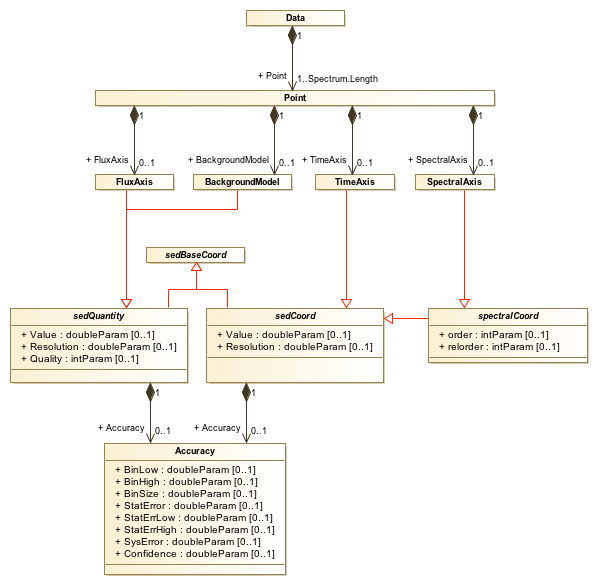
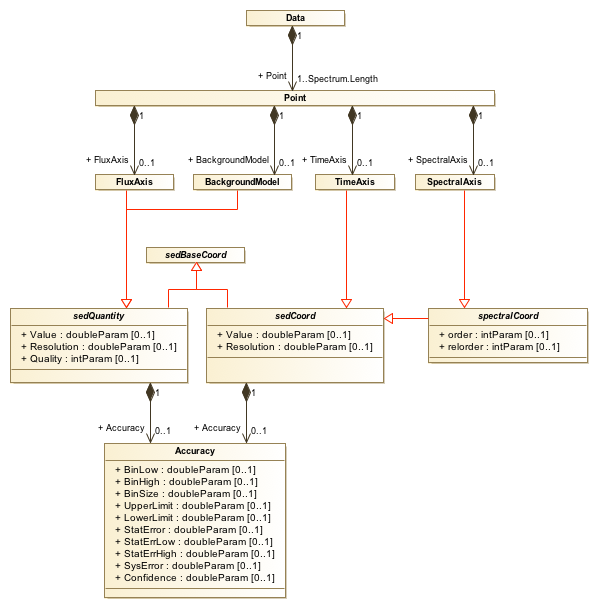
add upper/lower limit elements

diff --git a/doc/fields_table.tex b/doc/fields_table.tex
@@ -240,20 +240,22 @@ Data.BackgroundModel.unit     &TUNITn              & meta.unit               & U
 \hline
 \multicolumn{4}{c}{Accuracy Fields - per data point (default to corresponding Spectrum.Char values)} \\
 \hline
-Data.FluxAxis.Accuracy.StatError   &TTYPEn = 'ERR'    & stat.error;phot.flux.density; em.*   & symmetric error & OPT & (Char)\\
-Data.FluxAxis.Accuracy.StatErrLow &TTYPEn='ERR\_LO'       & stat.error;phot.flux.density; em.*;stat.min     & Lower error & OPT & (Char)\\
-Data.FluxAxis.Accuracy.StatErrHigh&TTYPEn='ERR\_HI'       & stat.error;phot.flux.density; em.*;stat.max     & Upper error & OPT & (Char)\\
-Data.FluxAxis.Accuracy.SysError&TTYPEn='SYS\_ERR'        & stat.error.sys;phot.flux.density; em.{\it  ..}    & Systematic error & OPT  & (Char)\\
-Data.FluxAxis.Quality     &TTYPEn='QUALITY'   & meta.code.qual; phot.flux.density, em.*   & Quality mask& OPT    &  0\\
-Data.FluxAxis.Quality.n   &TTYPEn='QUALn'   &     & String value, for n = 0,1,2..; meaning of quality value &OPT & None \\
-Data.SpectralAxis.Accuracy.BinSize &TTYPEn='WAVE\_BIN',etc  & em.*;spect.binSize  & Wavelength bin size  & OPT & (Char)\\
-Data.SpectralAxis.Accuracy.BinLow  & TTYPEn ='WAVE\_LO',etc   & em.*;stat.min & Spectral coord bin lower end & OPT & \\
-Data.SpectralAxis.Accuracy.BinHigh & TTYPEn ='WAVE\_HI',etc   & em.*;stat.max  &Spectral coord bin upper end & OPT & \\
-Data.SpectralAxis.Accuracy.StatError&TTYPEn ='WAVE\_ERR',etc    &  stat.error;em.*  & Spectral coord measurement error & OPT & (Char)\\
-Data.SpectralAxis.Accuracy.StatErrLow&TTYPEn='WAVE\_ELO',etc    & stat.error; em.*;stat.min  & Spectral coord measurement lower error & OPT & (Char)\\
-Data.SpectralAxis.Accuracy.StatErrHigh&TTYPEn='WAVE\_EHI',etc   & stat.error; em.*;stat.max  & Spectral coord measurement upper error & OPT & (Char)\\
-Data.SpectralAxis.Accuracy.SysError &TTYPEn='WAVE\_SYE',etc        & stat.error.sys;em.*  & Spectral coord systematic error & OPT & (Char)\\
-Data.SpectralAxis.Resolution   & TTYPEn ='WAVE\_RES',etc  & spect.resolution; em.*   & Spectral resolution FWHM & OPT & (Char)\\
+Data.FluxAxis.Accuracy.LowerLimit      &TTYPEn='LOWER\_LIMIT'  & stat.error;phot.flux.density; em.*;stat.min     & Lower Limit      & OPT & (None)\\
+Data.FluxAxis.Accuracy.UpperLimit      &TTYPEn='UPPER\_LIMIT'  & stat.error;phot.flux.density; em.*;stat.max     & Upper Limit      & OPT & (None)\\
+Data.FluxAxis.Accuracy.StatError       &TTYPEn='ERR'           & stat.error;phot.flux.density; em.*              & symmetric error  & OPT & (Char)\\
+Data.FluxAxis.Accuracy.StatErrLow      &TTYPEn='ERR\_LO'       & stat.error;phot.flux.density; em.*;stat.min     & Lower error      & OPT & (Char)\\
+Data.FluxAxis.Accuracy.StatErrHigh     &TTYPEn='ERR\_HI'       & stat.error;phot.flux.density; em.*;stat.max     & Upper error      & OPT & (Char)\\
+Data.FluxAxis.Accuracy.SysError        &TTYPEn='SYS\_ERR'      & stat.error.sys;phot.flux.density; em.{\it  ..}  & Systematic error & OPT & (Char)\\
+Data.FluxAxis.Quality                  &TTYPEn='QUALITY'       & meta.code.qual; phot.flux.density, em.*         & Quality mask     & OPT &  0\\
+Data.FluxAxis.Quality.n                &TTYPEn='QUALn'         &                                                 & String value, for n = 0,1,2..; meaning of quality value &OPT & (None)\\
+Data.SpectralAxis.Accuracy.BinSize     &TTYPEn='WAVE\_BIN',etc & em.*;spect.binSize                              & Wavelength bin size             & OPT & (Char)\\
+Data.SpectralAxis.Accuracy.BinLow      &TTYPEn='WAVE\_LO',etc  & em.*;stat.min                                   & Spectral coord bin lower end    & OPT & \\
+Data.SpectralAxis.Accuracy.BinHigh     &TTYPEn='WAVE\_HI',etc  & em.*;stat.max                                   & Spectral coord bin upper end    & OPT & \\
+Data.SpectralAxis.Accuracy.StatError   &TTYPEn='WAVE\_ERR',etc & stat.error;em.*                                 & Spectral coord measurement error       & OPT & (Char)\\
+Data.SpectralAxis.Accuracy.StatErrLow  &TTYPEn='WAVE\_ELO',etc & stat.error; em.*;stat.min                       & Spectral coord measurement lower error & OPT & (Char)\\
+Data.SpectralAxis.Accuracy.StatErrHigh &TTYPEn='WAVE\_EHI',etc & stat.error; em.*;stat.max                       & Spectral coord measurement upper error & OPT & (Char)\\
+Data.SpectralAxis.Accuracy.SysError    &TTYPEn='WAVE\_SYE',etc & stat.error.sys;em.*                             & Spectral coord systematic error        & OPT & (Char)\\
+Data.SpectralAxis.Resolution           &TTYPEn='WAVE\_RES',etc & spect.resolution; em.*                          & Spectral resolution FWHM               & OPT & (Char)\\
 \end{tabular}
 
 \end{minipage}

diff --git a/doc/specfits.tex b/doc/specfits.tex
@@ -350,31 +350,33 @@ Data model field & FITS keyword& Source & Value if fixed \\
 \multicolumn{4}{c}{ Per-data-point values }\\
 \hline
 \\
-Data.FluxAxis.Value & TTYPEn & S & FLUX\\
-UTYPE of above ...               & TUTYPn & N & 'Spectrum.Data.FluxAxis.Value'\\
-Data.FluxAxis.Unit & TUNITn& S\\
-Data.FluxAxis.ucd &   TUCDn  & N& (same as Char)\\
-Data.FluxAxis.Accuracy.StatError & TTYPEn  & N & ERR\\
+Data.FluxAxis.Value               & TTYPEn & S & FLUX\\
+UTYPE of above ...                & TUTYPn & N & 'Spectrum.Data.FluxAxis.Value'\\
+Data.FluxAxis.Unit                & TUNITn & S\\
+Data.FluxAxis.ucd                 & TUCDn  & N & (same as Char)\\
+Data.FluxAxis.Accuracy.LowerLimit & TTYPEn & N & LOWER\_LIMIT\\
+Data.FluxAxis.Accuracy.UpperLimit & TTYPEn & N & UPPER\_LIMIT\\ 
+Data.FluxAxis.Accuracy.StatError  & TTYPEn & N & ERR\\
 Data.FluxAxis.Accuracy.StatErrLow & TTYPEn & C & ERR\_LO\\
-Data.FluxAxis.Accuracy.StatErrHigh& TTYPEn& C & ERR\_HI\\ 
-Data.FluxAxis.Accuracy.SysError & TTYPEn & C & SYS\_ERR \\
-Data.FluxAxis.Quality & TTYPEn & C & QUALITY\\
-Data.FluxAxis.QualityN & TTYPEn & C & QUALn\\
+Data.FluxAxis.Accuracy.StatErrHigh& TTYPEn & C & ERR\_HI\\ 
+Data.FluxAxis.Accuracy.SysError   & TTYPEn & C & SYS\_ERR \\
+Data.FluxAxis.Quality             & TTYPEn & C & QUALITY\\
+Data.FluxAxis.QualityN            & TTYPEn & C & QUALn\\
  & & & \\
-Data.SpectralAxis.Value  & TTYPEn & S & WAVE,ENER,FREQ\\
-UTYPE of above ...               & TUTYPn & N & 'Spectrum.Data.SpectralAxis.Value'\\
-Data.SpectralAxis.Unit & TUNITn & S & (same as Char)\\
-Data.SpectralAxis.ucd &  TUCDn &N & (same as Char) \\
-Data.SpectralAxis.order  & TTYPEn & N & ORDER\\
-Data.SpectralAxis.relorder  & TTYPEn & N & RELORDER\\
-Data.SpectralAxis.Accuracy.BinSize& TTYPEn & N & WAVE\_BIN,ENER\_BIN, FREQ\_BIN\\
-Data.SpectralAxis.Accuracy.BinLow & TTYPEn & N & WAVE\_LO,ENER\_LO, FREQ\_LO \\
-Data.SpectralAxis.Accuracy.BinHigh& TTYPEn & N & WAVE\_HI,ENER\_HI, FREQ\_HI \\
-Data.SpectralAxis.Accuracy.StatError & TTYPEn& N & WAVE\_ERR,ENER\_ERR, FREQ\_ERR \\
-Data.SpectralAxis.Accuracy.StatErrLow& TTYPEn& N & WAVE\_ELO,ENER\_ELO, FREQ\_ELO \\
-Data.SpectralAxis.Accuracy.StatErrHigh & TTYPEn& N& WAVE\_EHI,ENER\_EHI, FREQ\_EHI \\
-Data.SpectralAxis.Accuracy.SysError & TTYPEn & N &  WAVE\_SYE,ENER\_SYE, FREQ\_SYE \\
-Data.SpectralAxis.Resolution & TTYPEn & N & WAVE\_RES,ENER\_RES, FREQ\_RES \\
+Data.SpectralAxis.Value                & TTYPEn & S & WAVE,ENER,FREQ\\
+UTYPE of above ...                     & TUTYPn & N & 'Spectrum.Data.SpectralAxis.Value'\\
+Data.SpectralAxis.Unit                 & TUNITn & S & (same as Char)\\
+Data.SpectralAxis.ucd                  & TUCDn  & N & (same as Char) \\
+Data.SpectralAxis.order                & TTYPEn & N & ORDER\\
+Data.SpectralAxis.relorder             & TTYPEn & N & RELORDER\\
+Data.SpectralAxis.Accuracy.BinSize     & TTYPEn & N & WAVE\_BIN,ENER\_BIN, FREQ\_BIN\\
+Data.SpectralAxis.Accuracy.BinLow      & TTYPEn & N & WAVE\_LO,ENER\_LO, FREQ\_LO \\
+Data.SpectralAxis.Accuracy.BinHigh     & TTYPEn & N & WAVE\_HI,ENER\_HI, FREQ\_HI \\
+Data.SpectralAxis.Accuracy.StatError   & TTYPEn & N & WAVE\_ERR,ENER\_ERR, FREQ\_ERR \\
+Data.SpectralAxis.Accuracy.StatErrLow  & TTYPEn & N & WAVE\_ELO,ENER\_ELO, FREQ\_ELO \\
+Data.SpectralAxis.Accuracy.StatErrHigh & TTYPEn & N & WAVE\_EHI,ENER\_EHI, FREQ\_EHI \\
+Data.SpectralAxis.Accuracy.SysError    & TTYPEn & N & WAVE\_SYE,ENER\_SYE, FREQ\_SYE \\
+Data.SpectralAxis.Resolution           & TTYPEn & N & WAVE\_RES,ENER\_RES, FREQ\_RES \\
 \\
 \end{tabular}
 \end{minipage}

diff --git a/doc/Spectrum.tex b/doc/Spectrum.tex
@@ -64,7 +64,7 @@
 \par\noindent \htmtitle{IVOA Spectrum Data Model}{Version 1.2}
 \Large
 \vskip 0.1in
-\par\noindent{\bf IVOA Working Draft 2022-07-19}
+\par\noindent{\bf IVOA Working Draft 2022-07-20}
 \color{black}
 \vskip 0.2in
 
@@ -74,7 +74,7 @@
 
 Data Model Working Group
 
-\par\noindent{\bf This version (Mod 0)}
+\par\noindent{\bf This version (Mod 2)}
 
 { 
 \color{dblue}
@@ -173,6 +173,7 @@ This version adds support for:
 \subsection{Change Log}
 
 \begin{verbatim}
+2022 Jul 20 V1.2 Mod 2 - Add upper/lower limit elements
 2022 Jul 19 V1.2 Mod 1 - Add spectral order elements
 2022 Jun 22 V1.2 Mod 0 - Document reset to WD for enhancement
 \end{verbatim}
@@ -840,16 +841,10 @@ error ellipse, but this is too complicated for the present model.
 We also use a very simple error model for the fluxes: we include plus and minus flux
 errors, and a quality flag. The errors are understood as
 1 sigma gaussian errors which are uncorrelated for different points
-in the spectrum. If the data provider has only upper limit
-information, it should be represented by setting the flux value and
-the lower error value equal to the limit, and the upper error value
-equal to zero (e.g.  5 (+0,-5)). In general applications
-may choose to render measurements as upper limits if the flux value
-is less than some multiple (e.g. 3) of the lower error.
+in the spectrum. 
 We also allow a systematic error value, assumed constant across
 a given spectrum and fully correlated (so that, e.g. it does not enter
 into estimating spectral slopes).
-
 
 {\bf CLARIFICATION: }  the two-sided errors StatErrLow and StatErrHigh are the plus/minus ERRORS,
 not the (value+error, value-error). In other words, if Value = 10 and there
@@ -866,7 +861,20 @@ SpectralCoord, Time, Sky and Flux are optional; however, omitting these fields
 indicates that the errors are unknown. Data providers are STRONGLY
 encouraged to provide explicit error measures whenever possible. 
 
- 
+\subsubsection{Statistical Limits}
+
+The UpperLimit and LowerLimit fields allow data providers to explicitly
+represent statistical limits on the flux values.  In many cases, it can
+be useful to provide both the measured flux, with associated errors, AND
+statistical limits.  For this reason, these limits may be supplied
+independently of the flux values themselves.
+
+{\bf NOTE: } The previous version of this model suggests representing upper 
+limits by setting the flux value and the lower error (StatErrLow) value 
+equal to the limit, and the upper error (StatErrHigh) value equal to
+zero (e.g.  5 (+0,-5)).  While this remains a valid representation, we 
+recommend data providers use the more explicit model elements whenever possible.
+
 
 \subsubsection{Resolution}
 

diff --git a/doc/specxml.tex b/doc/specxml.tex
@@ -235,7 +235,6 @@ value has minOccurs=0 so it can be omitted) -->
 \begin{fmppage}
 \begin{verbatim}
 
-
 <!-- The error model. Bin entries will usually be omitted for the flux coordinate -->
 <xs:complexType name="accuracyType">
 <xs:complexContent mixed="false">
@@ -244,6 +243,8 @@ value has minOccurs=0 so it can be omitted) -->
 <xs:element minOccurs="0" maxOccurs="1" name="BinLow" type="doubleParamType" />
 <xs:element minOccurs="0" maxOccurs="1" name="BinHigh" type="doubleParamType" />
 <xs:element minOccurs="0" maxOccurs="1" name="BinSize" type="doubleParamType" />
+<xs:element minOccurs="0" maxOccurs="1" name="UpperLimit" type="doubleParamType" />
+<xs:element minOccurs="0" maxOccurs="1" name="LowerLimit" type="doubleParamType" />
 <xs:element minOccurs="0" maxOccurs="1" name="StatError" type="doubleParamType" />
 <xs:element minOccurs="0" maxOccurs="1" name="StatErrLow" type="doubleParamType" />
 <xs:element minOccurs="0" maxOccurs="1" name="StatErrHigh" type="doubleParamType" />
@@ -253,7 +254,6 @@ value has minOccurs=0 so it can be omitted) -->
 </xs:extension>
 </xs:complexContent>
 </xs:complexType>
-
 
 <!-- The Field type allows us to define what our axes are -->
 <xs:complexType name="arrayOfFieldType">
